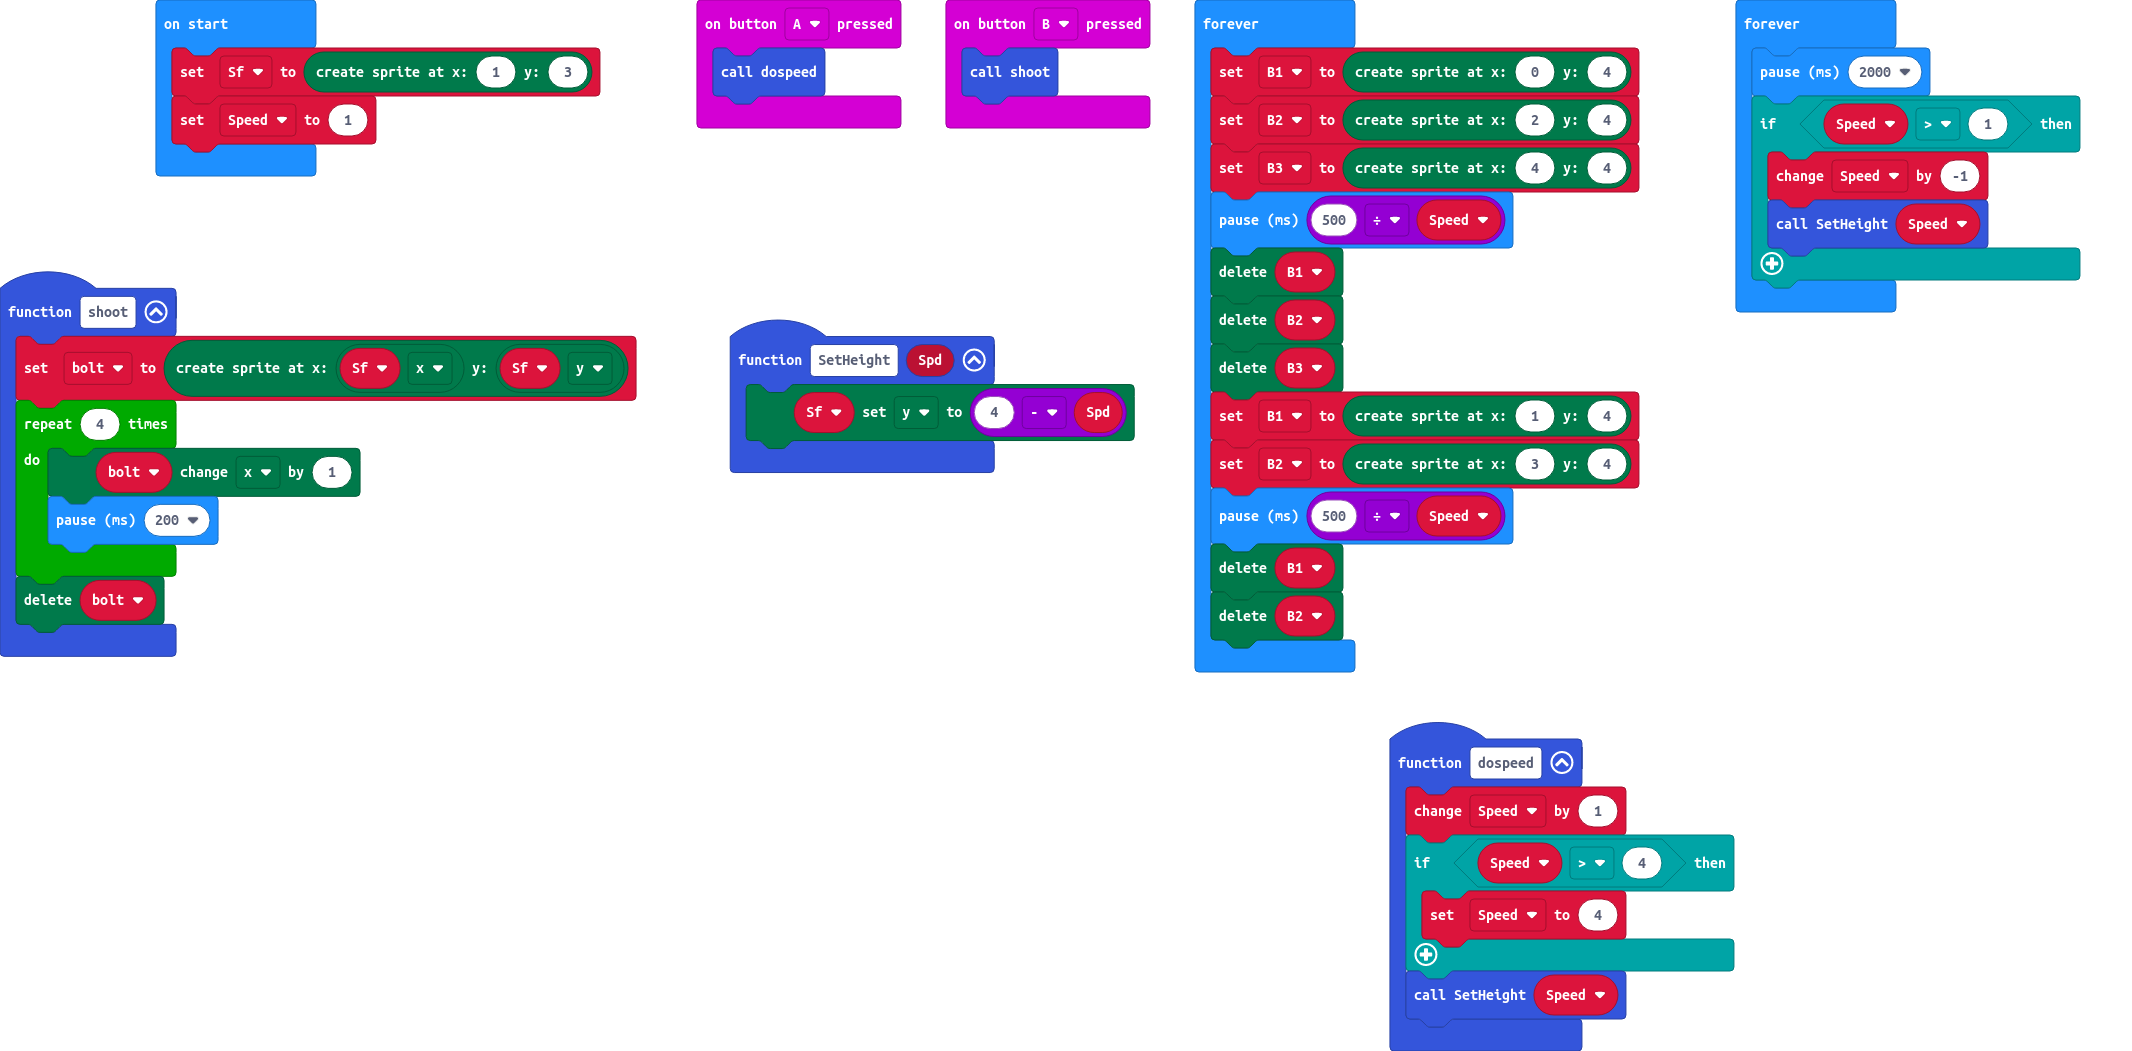
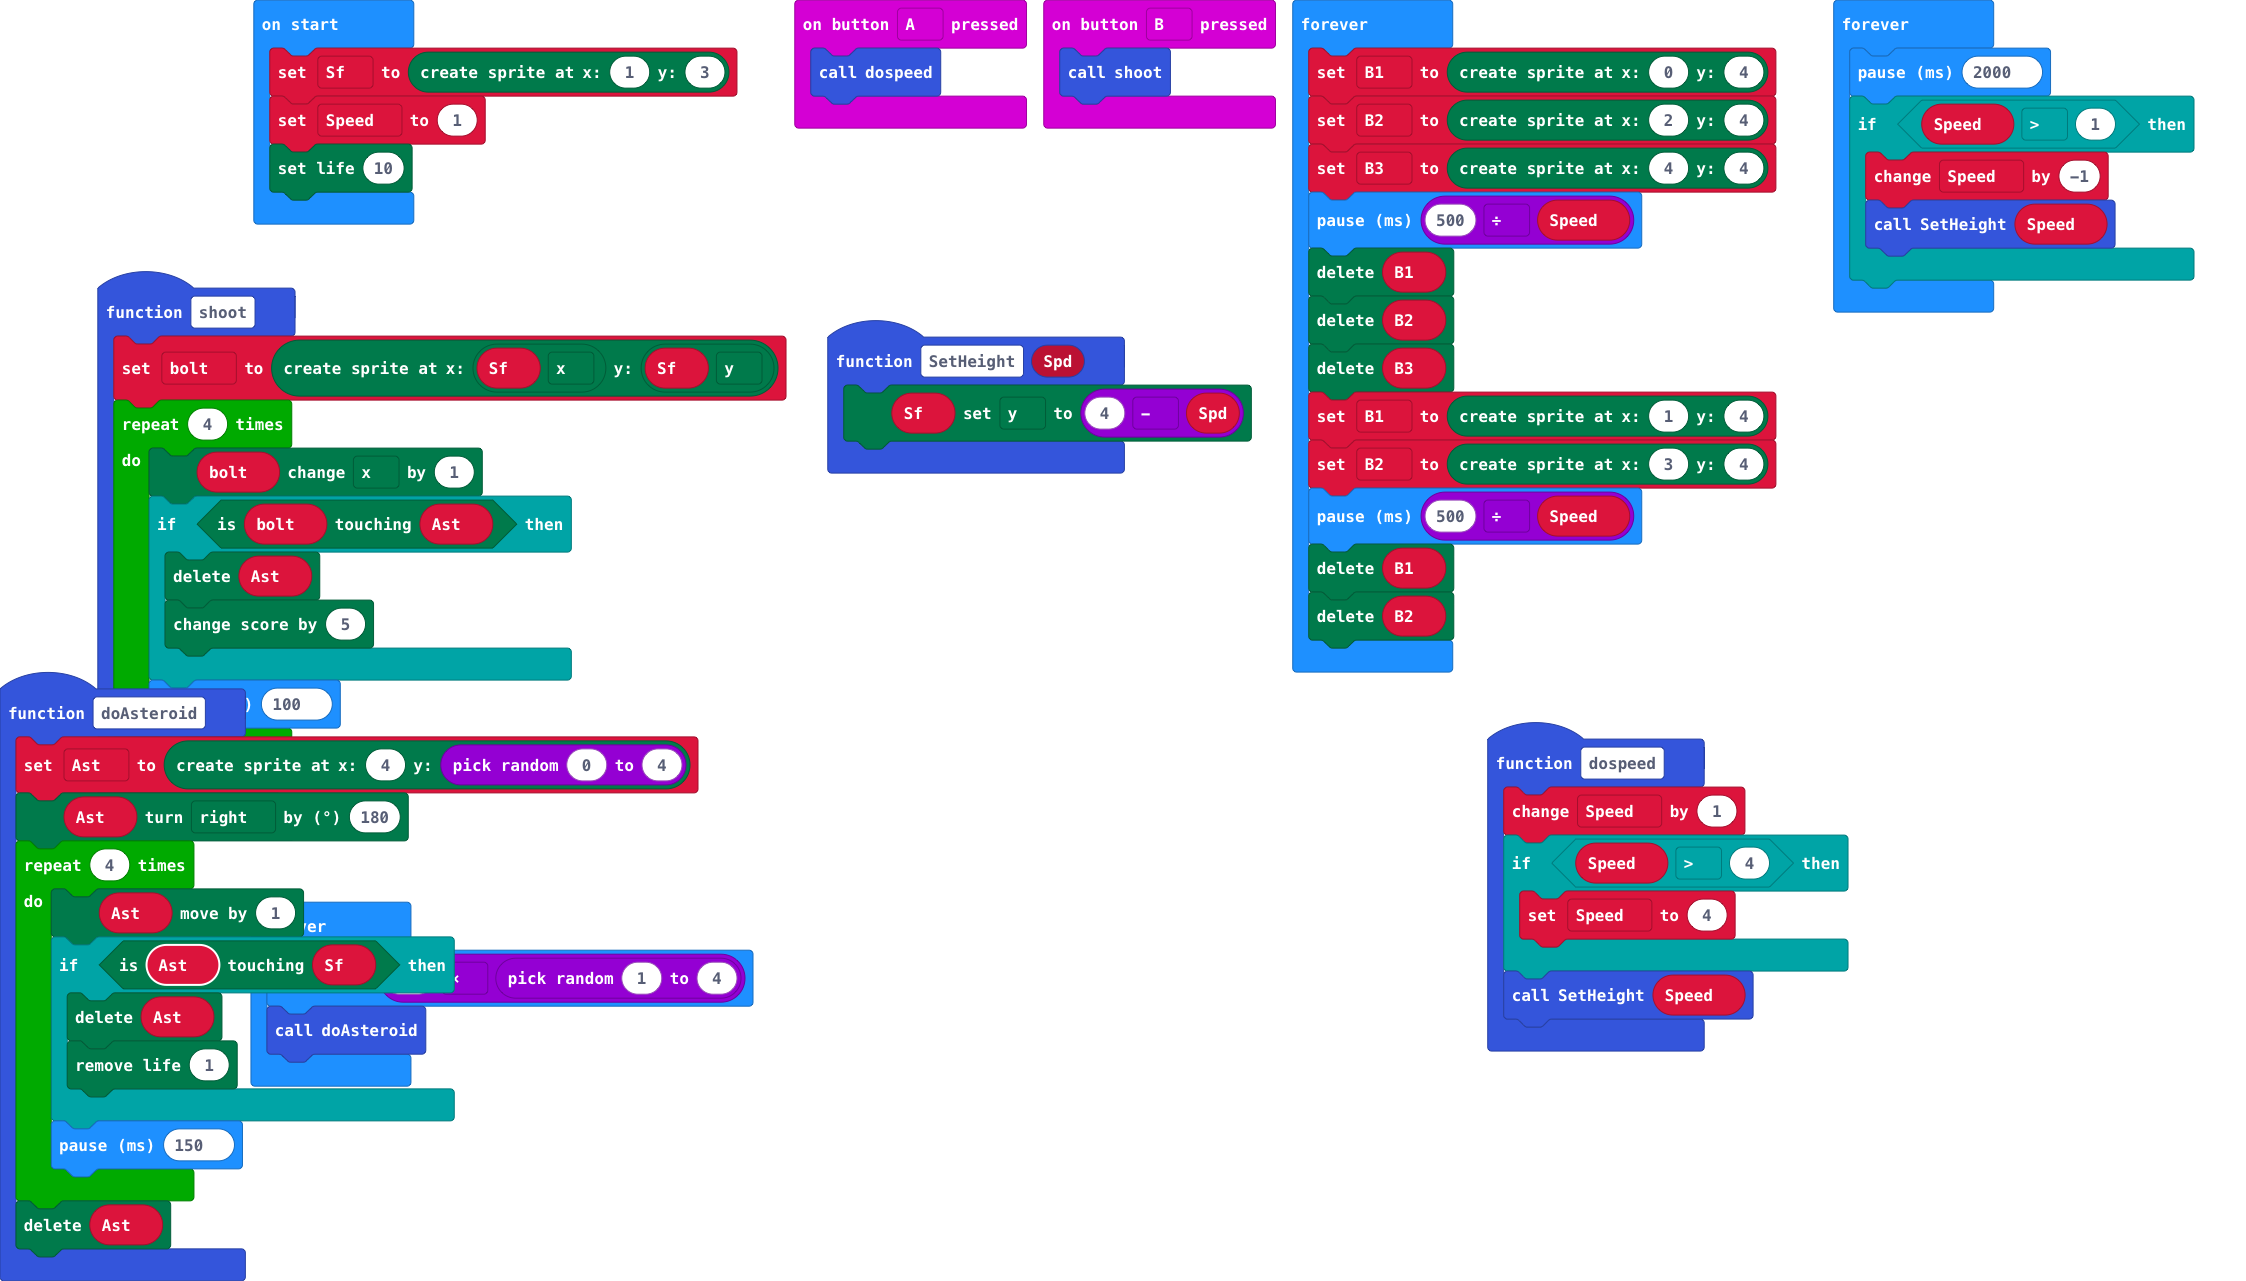
Update main.blocks, main.ts

diff --git a/main.ts b/main.ts
@@ -8,11 +8,28 @@ function dospeed () {
     }
     SetHeight(Speed)
 }
+function doAsteroid () {
+    Ast = game.createSprite(4, randint(0, 4))
+    Ast.turn(Direction.Right, 180)
+    for (let index = 0; index < 4; index++) {
+        Ast.move(1)
+        if (Ast.isTouching(Sf)) {
+            Ast.delete()
+            game.removeLife(1)
+        }
+        basic.pause(150)
+    }
+    Ast.delete()
+}
 function shoot () {
     bolt = game.createSprite(Sf.get(LedSpriteProperty.X), Sf.get(LedSpriteProperty.Y))
     for (let index = 0; index < 4; index++) {
         bolt.change(LedSpriteProperty.X, 1)
-        basic.pause(200)
+        if (bolt.isTouching(Ast)) {
+            Ast.delete()
+            game.addScore(5)
+        }
+        basic.pause(100)
     }
     bolt.delete()
 }
@@ -26,10 +43,12 @@ let B3: game.LedSprite = null
 let B2: game.LedSprite = null
 let B1: game.LedSprite = null
 let bolt: game.LedSprite = null
+let Ast: game.LedSprite = null
 let Speed = 0
 let Sf: game.LedSprite = null
 Sf = game.createSprite(1, 3)
 Speed = 1
+game.setLife(10)
 basic.forever(function () {
     B1 = game.createSprite(0, 4)
     B2 = game.createSprite(2, 4)
@@ -50,4 +69,8 @@ basic.forever(function () {
         Speed += -1
         SetHeight(Speed)
     }
+})
+basic.forever(function () {
+    basic.pause(500 * randint(1, 4))
+    doAsteroid()
 })
